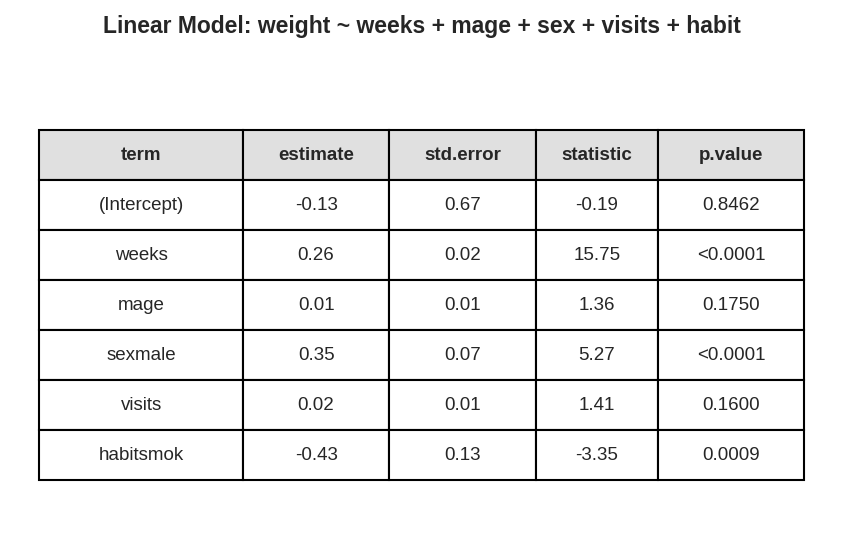
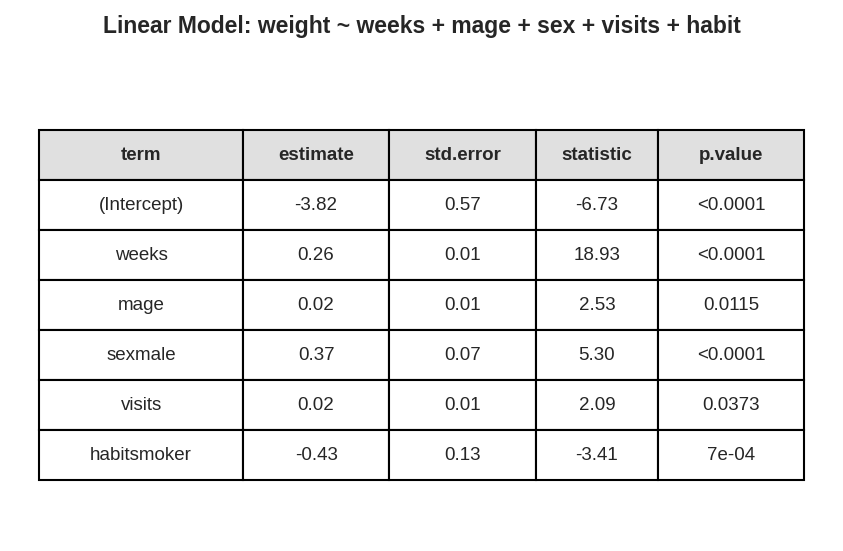
Update Ch25 exercise tables and regenerate images

diff --git a/generate_ch25_exercise_figures.py b/generate_ch25_exercise_figures.py
@@ -56,10 +56,10 @@ print("\n1. GPA, mathematical interval...")
 
 table_data = [
     ['term', 'estimate', 'std.error', 'statistic', 'p.value'],
-    ['(Intercept)', '3.447', '0.360', '9.579', '<0.0001'],
-    ['studyweek', '0.006', '0.006', '0.933', '0.3554'],
-    ['sleepnight', '-0.014', '0.049', '-0.293', '0.7707'],
-    ['out_mt2', '0.151', '0.098', '1.533', '0.1318']
+    ['(Intercept)', '3.508', '0.347', '10.114', '<0.0001'],
+    ['studyweek', '0.002', '0.004', '0.400', '0.6908'],
+    ['sleepnight', '0.000', '0.047', '0.008', '0.994'],
+    ['out_mt2', '0.151', '0.097', '1.551', '0.127']
 ]
 create_regression_table(table_data, 'Linear Model: gpa ~ studyweek + sleepnight + out_mt2',
                        os.path.join(output_dir, '_25-ex-inf-model-mlr-1-1.png'))
@@ -303,12 +303,12 @@ print("7. Baby's weight, mathematical test...")
 
 table_data_babies = [
     ['term', 'estimate', 'std.error', 'statistic', 'p.value'],
-    ['(Intercept)', '-0.13', '0.67', '-0.19', '0.8462'],
-    ['weeks', '0.26', '0.02', '15.75', '<0.0001'],
-    ['mage', '0.01', '0.01', '1.36', '0.1750'],
-    ['sexmale', '0.35', '0.07', '5.27', '<0.0001'],
-    ['visits', '0.02', '0.01', '1.41', '0.1600'],
-    ['habitsmok', '-0.43', '0.13', '-3.35', '0.0009']
+    ['(Intercept)', '-3.82', '0.57', '-6.73', '<0.0001'],
+    ['weeks', '0.26', '0.01', '18.93', '<0.0001'],
+    ['mage', '0.02', '0.01', '2.53', '0.0115'],
+    ['sexmale', '0.37', '0.07', '5.30', '<0.0001'],
+    ['visits', '0.02', '0.01', '2.09', '0.0373'],
+    ['habitsmoker', '-0.43', '0.13', '-3.41', '7e-04']
 ]
 create_regression_table(table_data_babies, 'Linear Model: weight ~ weeks + mage + sex + visits + habit',
                        os.path.join(output_dir, '_25-ex-inf-model-mlr-7-14.png'))
